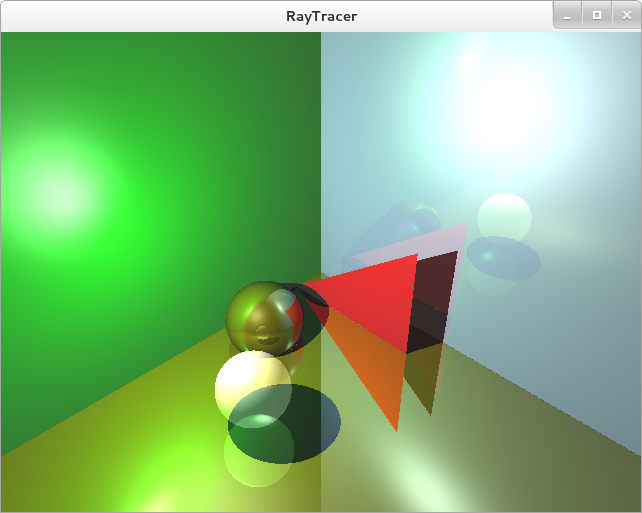
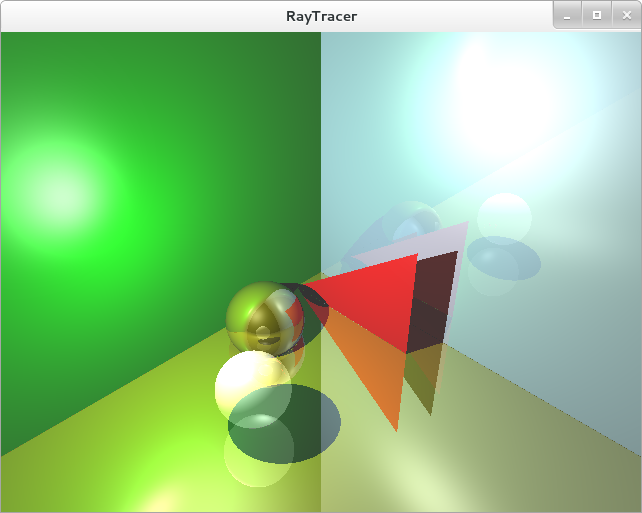
CG broken. Needs work.

Changed region(s): [[0.0, 0.5302, 1.0, 0.9981], [0.1869, 0.9045, 0.3115, 0.9981]]

diff --git a/CG/cw2/RayTracer.cpp b/CG/cw2/RayTracer.cpp
@@ -1,4 +1,5 @@
 #include "RayTracer.h"
+#include <typeinfo>
 using namespace std;
 
 int windowX = 640;
@@ -13,6 +14,7 @@ glm::vec3 eyePos = glm::vec3(-10, 10, 10);
 //refraction - keep track of last object hit, and the refractive index of that object
 //Air: object = NULL, index = 1
 const Object* lastObjectHit = NULL;
+int lastObjectHitId = 0;
 float lastObjectRefractiveIndex = 1.0f;
 
 /*
@@ -146,18 +148,23 @@ float CastRay(Ray &ray, Payload &payload) {
                     initColour = info.material->ambient;
                 }      
                    
+                
+                bool refracted = false;
                 //Refraction
                 if (info.material->refraction > 0) {
                     float r; //r = n1/n2 - ratio of refractive indices
-                    //leaving an object (sphere)
-                    if (lastObjectHit == info.objectHit) {
+                    
+                    //leaving an object (sphere) TODO: broke-ass
+                    if (lastObjectHitID == info.objectHit && lastObjectHitID == 2) {
                         r = lastObjectRefractiveIndex; //should be lastObjectRefIndex/airIndex, but airIndex is 1
+                        //printf("%f\n", r);
                         
                         lastObjectHit = NULL;
-                        lastObjectRefractiveIndex = 1;
-                    } 
+                        lastObjectRefractiveIndex = 1.0f;
+                    }
                     //entering an object
                     else {
+                        printf("enter\n");
                         r = lastObjectRefractiveIndex / info.material->refractiveIndex;
                         
                         lastObjectHit = info.objectHit;
@@ -169,8 +176,8 @@ float CastRay(Ray &ray, Payload &payload) {
                     glm::vec3 l = glm::normalize(ray.direction);
                     float c = -1.0f * glm::dot(info.normal, l);
                     float radicand = 1.0f - (pow(r, 2) * (1.0f - pow(c, 2)));
-                    
                     if (radicand >= 0.0f) {
+                        refracted = true;
                         glm::vec3 refractionDir = (r*l) + (((r*c) - sqrt(radicand))*info.normal);
 
                         Ray refractionRay = Ray(info.hitPoint, refractionDir);
@@ -178,19 +185,17 @@ float CastRay(Ray &ray, Payload &payload) {
 
                         lastObjectRefractiveIndex = info.material->refractiveIndex;
 
-                        CastRay(refractionRayOffset, payload);
-                        
-                        payload.color = reflectedColour + (1-info.material->reflection) * initColour + info.material->refraction * payload.color;
-                    } else {
-                        //No refraction
-                        payload.color = reflectedColour + (1-info.material->reflection) * initColour;
+                        CastRay(refractionRayOffset, payload);                        
                     }
-                } else {
-                    payload.color = reflectedColour * payload.color + (1-info.material->reflection) * initColour;
                 }
                 
-                lastObjectHit = NULL;
-                lastObjectRefractiveIndex = 1.0f;
+                if (refracted) {
+                    payload.color = reflectedColour + ((1-info.material->reflection)*initColour) + (info.material->refraction*payload.color);
+                } else {
+                    payload.color = reflectedColour + ((1-info.material->reflection)*initColour);
+                }
+                
+                //payload.color = reflectedColour + ((1-info.material->reflection)*initColour);
                 
 		return info.time;
 	}
@@ -245,6 +250,10 @@ void Render()
 			else {
 				glColor3f(0.0f, 0.0f, 0.0f);
 			}
+                        //reset for next ray
+                        lastObjectHit = NULL;
+                        lastObjectHitId = 0;
+                        lastObjectRefractiveIndex = 1.0f;
 
 			glVertex3f(pixelX,pixelY,0.0f);
 		}

diff --git a/CG/cw2/Object.cpp b/CG/cw2/Object.cpp
@@ -1,4 +1,5 @@
 #include "Object.h"
+#include <typeinfo>
 
 float depthMin = 0.01f;
 
@@ -57,6 +58,7 @@ bool Sphere::Intersect(const Ray &ray, IntersectInfo &info) const {
         info.normal = glm::normalize(info.hitPoint - s);
         
         info.objectHit = thisObject();
+        info.objectHitId = OjbectID();
         
         return true;
     }
@@ -88,6 +90,7 @@ bool Plane::Intersect(const Ray &ray, IntersectInfo &info) const {
             info.normal = n;
             
             info.objectHit = thisObject();
+            info.objectHitId = OjbectID();
             
             return true;
         }
@@ -158,6 +161,7 @@ bool Triangle::Intersect(const Ray &ray, IntersectInfo &info) const {
                 info.normal = n;
                 
                 info.objectHit = thisObject();
+                info.objectHitId = OjbectID();
                 
                 return true;    
             }

diff --git a/CG/cw2/Object.h b/CG/cw2/Object.h
@@ -49,6 +49,8 @@ class Sphere : public Object {
       
     virtual bool Intersect(const Ray &ray, IntersectInfo &info) const; //  To figure out if the Ray hit this object.
     
+    virtual int OjbectID() const { return 1; } 
+    
 };
 
 class Plane : public Object {
@@ -57,6 +59,8 @@ class Plane : public Object {
         glm::vec3 Normal() const { return normal; }
         
         virtual bool Intersect(const Ray &ray, IntersectInfo &info) const;
+        
+        virtual int OjbectID() const { return 2; }
 };
 
 class Triangle : public Object {
@@ -78,4 +82,6 @@ class Triangle : public Object {
         virtual bool Intersect(const Ray &ray, IntersectInfo &info) const;
         float BaryF(glm::vec2 p, glm::vec2 q, glm::vec2 z) const;
         int MaxNormalIndex() const;
+        
+        virtual int OjbectID() const { return 3; }
 };

diff --git a/CG/cw2/Ray.h b/CG/cw2/Ray.h
@@ -32,7 +32,8 @@ class IntersectInfo {
       hitPoint(0.0f),
       normal(0.0f),
       material(NULL),
-      objectHit(NULL)
+      objectHit(NULL),
+      objectHitId(0)
     {}
     // It allows you to init variables in another way. Equal to:
     // IntersectInfo(){
@@ -52,6 +53,7 @@ class IntersectInfo {
     const Material *material;
     //the object hit
     const Object* objectHit;
+    int objectHitId;
 
     // Reloading "operator =" for class IntersectInfo
     IntersectInfo &operator =(const IntersectInfo &rhs) {
@@ -60,6 +62,7 @@ class IntersectInfo {
       normal = rhs.normal;
       time = rhs.time;
       objectHit = rhs.objectHit;
+      objectHitId = rhs.objectHitId;
       return *this;
     }
 };
